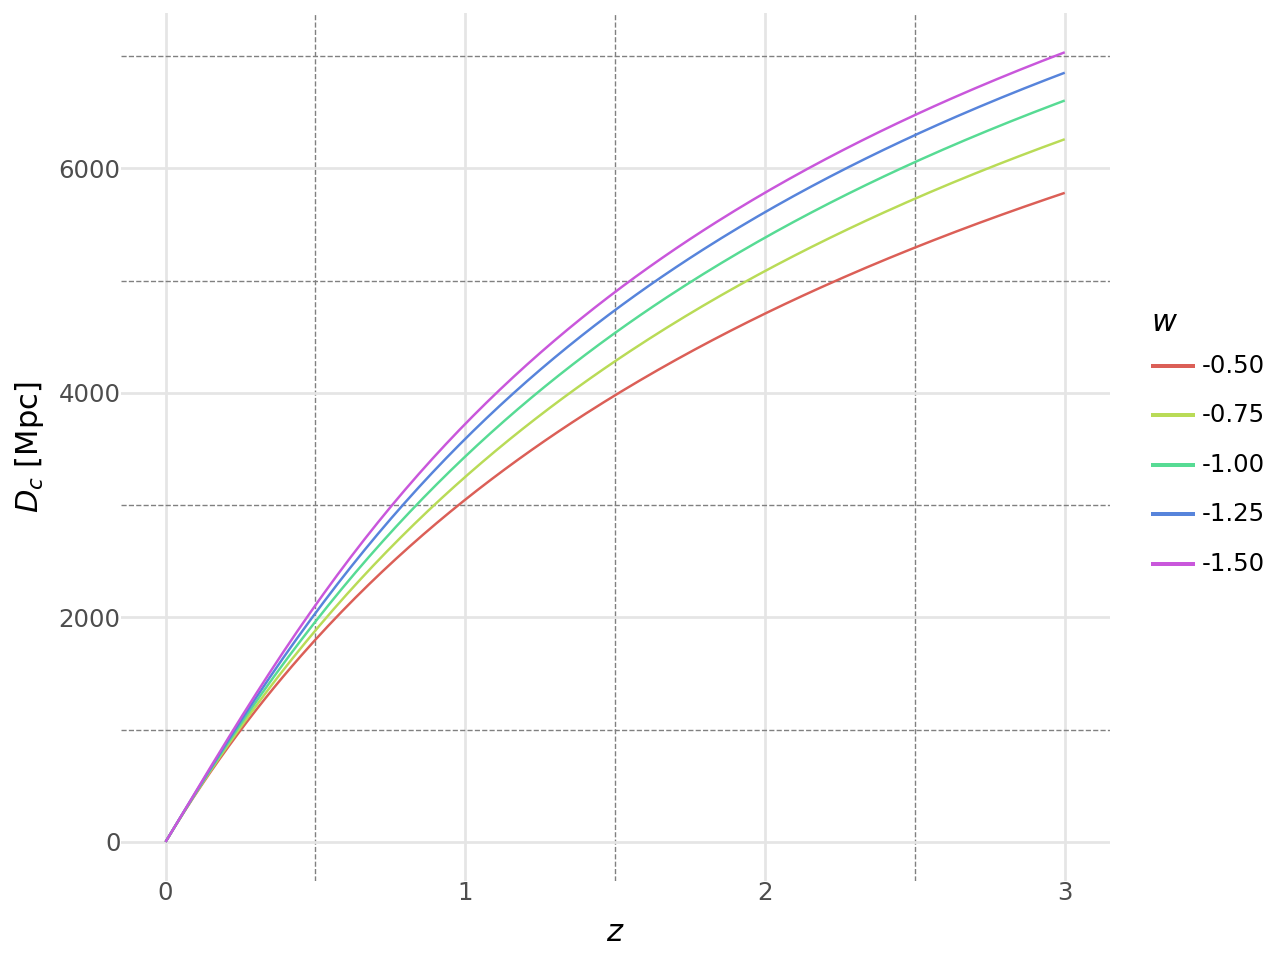
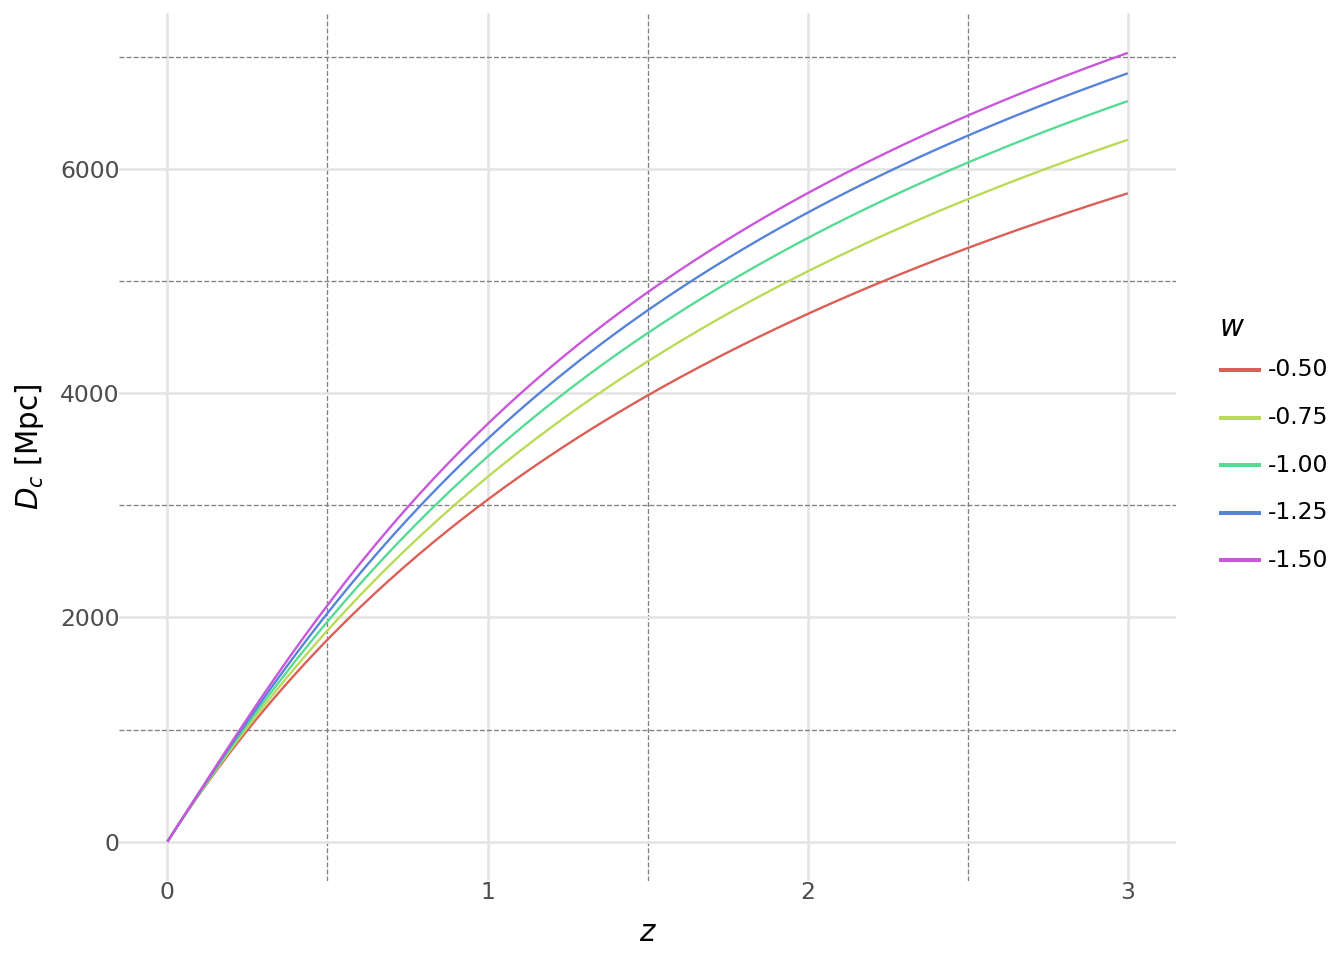
Built site for gh-pages

diff --git a/example_snia.html b/example_snia.html
@@ -316,7 +316,7 @@ window.Quarto = {
 
 
 <div class="hidden">
-<div id="16ebce3c" class="cell" data-execution_count="1">
+<div id="3488884b" class="cell" data-execution_count="1">
 <div class="sourceCode cell-code" id="cb1"><pre class="sourceCode python code-with-copy"><code class="sourceCode python"><span id="cb1-1"><a href="#cb1-1" aria-hidden="true" tabindex="-1"></a><span class="kw">def</span> doc_theme():</span>
 <span id="cb1-2"><a href="#cb1-2" aria-hidden="true" tabindex="-1"></a>    <span class="cf">return</span> theme_minimal() <span class="op">+</span> theme(</span>
 <span id="cb1-3"><a href="#cb1-3" aria-hidden="true" tabindex="-1"></a>        panel_grid_minor<span class="op">=</span>element_line(color<span class="op">=</span><span class="st">"gray"</span>, linetype<span class="op">=</span><span class="st">"--"</span>),</span>
@@ -327,7 +327,7 @@ window.Quarto = {
 <section id="computational-cosmology" class="level2 page-columns page-full">
 <h2 class="anchored" data-anchor-id="computational-cosmology">Computational Cosmology</h2>
 <p>NumCosmo provides tools for calculating cosmological observables with precision. For example, the comoving distance in an XCDM cosmology up to a redshift of <span class="math inline">\(z = 3.0\)</span> can be computed with a few lines of code using the parameters <span class="math inline">\(\Omega_{c0} = 0.25\)</span>, <span class="math inline">\(\Omega_{b0} = 0.05\)</span>, and <span class="math inline">\(w\)</span> varying from <span class="math inline">\(-1.5\)</span> to <span class="math inline">\(-0.5\)</span>.</p>
-<div id="97e289c6" class="cell" data-execution_count="2">
+<div id="1e7c5c49" class="cell" data-execution_count="2">
 <div class="sourceCode cell-code" id="cb2"><pre class="sourceCode python code-with-copy"><code class="sourceCode python"><span id="cb2-1"><a href="#cb2-1" aria-hidden="true" tabindex="-1"></a><span class="im">import</span> numpy <span class="im">as</span> np</span>
 <span id="cb2-2"><a href="#cb2-2" aria-hidden="true" tabindex="-1"></a><span class="im">import</span> pandas <span class="im">as</span> pd</span>
 <span id="cb2-3"><a href="#cb2-3" aria-hidden="true" tabindex="-1"></a><span class="im">from</span> plotnine <span class="im">import</span> <span class="op">*</span></span>
@@ -374,7 +374,7 @@ window.Quarto = {
 <div id="fig-comoving-distance" class="quarto-float quarto-figure quarto-figure-center anchored page-columns page-full" data-cap-location="margin">
 <figure class="quarto-float quarto-float-fig figure page-columns page-full">
 <div aria-describedby="fig-comoving-distance-caption-0ceaefa1-69ba-4598-a22c-09a6ac19f8ca">
-<img src="example_snia_files/figure-html/fig-comoving-distance-output-1.png" width="640" height="480" class="figure-img">
+<img src="example_snia_files/figure-html/fig-comoving-distance-output-1.png" width="672" height="480" class="figure-img">
 </div>
 <figcaption class="quarto-float-caption-margin quarto-float-caption quarto-float-fig margin-caption" id="fig-comoving-distance-caption-0ceaefa1-69ba-4598-a22c-09a6ac19f8ca">
 Figure&nbsp;1: Comoving distance for XCDM cosmology up to redshift <span class="math inline">\(z = 3.0\)</span>.
@@ -386,7 +386,7 @@ Figure&nbsp;1: Comoving distance for XCDM cosmology up to redshift <span class="
 <section id="the-modeling" class="level3">
 <h3 class="anchored" data-anchor-id="the-modeling">The Modeling</h3>
 <p>NumCosmo’s computational objects are designed for direct use in statistical analyses. In the example above, the <code>HICosmoDEXcdm</code> class defines the cosmological model, which is a subclass of the <code>HICosmo</code> class representing a homogeneous isotropic cosmology. The model’s parameters can be accessed and managed within a model set, using the <code>MSet</code> class, which serves as the main container for all models in a given analysis.</p>
-<div id="09787363" class="cell" data-execution_count="4">
+<div id="01ac4cbb" class="cell" data-execution_count="4">
 <div class="sourceCode cell-code" id="cb4"><pre class="sourceCode python code-with-copy"><code class="sourceCode python"><span id="cb4-1"><a href="#cb4-1" aria-hidden="true" tabindex="-1"></a>mset <span class="op">=</span> Ncm.MSet.new_array([cosmo])</span>
 <span id="cb4-2"><a href="#cb4-2" aria-hidden="true" tabindex="-1"></a>mset.pretty_log()</span></code><button title="Copy to Clipboard" class="code-copy-button"><i class="bi"></i></button></pre></div>
 <div class="cell-output cell-output-stdout">
@@ -410,7 +410,7 @@ Figure&nbsp;1: Comoving distance for XCDM cosmology up to redshift <span class="
 <section id="fitting-model-to-data" class="level2 page-columns page-full">
 <h2 class="anchored" data-anchor-id="fitting-model-to-data">Fitting Model to Data</h2>
 <p>Once models are defined and the free parameters are set, they can be analyzed using a variety of statistical methods. For example, the best-fit parameters for a given model can be found by maximizing the likelihood function.</p>
-<div id="d53178d2" class="cell" data-execution_count="5">
+<div id="a67fa98b" class="cell" data-execution_count="5">
 <details class="code-fold">
 <summary>Code</summary>
 <div class="sourceCode cell-code" id="cb6"><pre class="sourceCode python code-with-copy"><code class="sourceCode python"><span id="cb6-1"><a href="#cb6-1" aria-hidden="true" tabindex="-1"></a>cosmo.props.w_fit <span class="op">=</span> <span class="va">True</span></span>
@@ -437,7 +437,7 @@ Figure&nbsp;1: Comoving distance for XCDM cosmology up to redshift <span class="
 #  - differentiation:   Numerical differentiantion (forward)
 #................
 #  Minimum found with precision: |df|/f =  1.00000e-08 and |dx| =  1.00000e-05
-#  Elapsed time: 00 days, 00:00:00.8876990
+#  Elapsed time: 00 days, 00:00:00.8017820
 #  iteration            [000074]
 #  function evaluations [000076]
 #  gradient evaluations [000000]
@@ -470,7 +470,7 @@ Figure&nbsp;1: Comoving distance for XCDM cosmology up to redshift <span class="
 </div>
 </div>
 <p>The code above fits the XCDM model to the Union2.1 dataset, which contains supernova type Ia data. It computes the best-fit parameters for the model and the covariance matrix of the parameters using the Fisher matrix.</p>
-<div id="9183a77f" class="cell" data-execution_count="6">
+<div id="4bd3a157" class="cell" data-execution_count="6">
 <div class="sourceCode cell-code" id="cb8"><pre class="sourceCode python code-with-copy"><code class="sourceCode python"><span id="cb8-1"><a href="#cb8-1" aria-hidden="true" tabindex="-1"></a>lhr2d <span class="op">=</span> Ncm.LHRatio2d.new(</span>
 <span id="cb8-2"><a href="#cb8-2" aria-hidden="true" tabindex="-1"></a>    fit,</span>
 <span id="cb8-3"><a href="#cb8-3" aria-hidden="true" tabindex="-1"></a>    mset.fparam_get_pi_by_name(<span class="st">"Omegac"</span>),</span>
@@ -525,7 +525,7 @@ Figure&nbsp;1: Comoving distance for XCDM cosmology up to redshift <span class="
 <div id="fig-fit-results" class="quarto-float quarto-figure quarto-figure-center anchored page-columns page-full" data-cap-location="margin">
 <figure class="quarto-float quarto-float-fig figure page-columns page-full">
 <div aria-describedby="fig-fit-results-caption-0ceaefa1-69ba-4598-a22c-09a6ac19f8ca">
-<img src="example_snia_files/figure-html/fig-fit-results-output-1.png" width="640" height="480" class="figure-img">
+<img src="example_snia_files/figure-html/fig-fit-results-output-1.png" width="672" height="480" class="figure-img">
 </div>
 <figcaption class="quarto-float-caption-margin quarto-float-caption quarto-float-fig margin-caption" id="fig-fit-results-caption-0ceaefa1-69ba-4598-a22c-09a6ac19f8ca">
 Figure&nbsp;2: Best-fit parameters and confidence regions for the XCDM model.
@@ -538,7 +538,7 @@ Figure&nbsp;2: Best-fit parameters and confidence regions for the XCDM model.
 <section id="running-a-mcmc-analysis" class="level2 page-columns page-full">
 <h2 class="anchored" data-anchor-id="running-a-mcmc-analysis">Running a MCMC Analysis</h2>
 <p>NumCosmo also provides tools for running Markov Chain Monte Carlo (MCMC) analyses. The code below runs an MCMC analysis using the <code>APES</code> algorithm.</p>
-<div id="fac337ac" class="cell" data-execution_count="8">
+<div id="721e7801" class="cell" data-execution_count="8">
 <div class="sourceCode cell-code" id="cb10"><pre class="sourceCode python code-with-copy"><code class="sourceCode python"><span id="cb10-1"><a href="#cb10-1" aria-hidden="true" tabindex="-1"></a>init_sampler <span class="op">=</span> Ncm.MSetTransKernGauss.new(<span class="dv">0</span>)</span>
 <span id="cb10-2"><a href="#cb10-2" aria-hidden="true" tabindex="-1"></a>init_sampler.set_mset(mset)</span>
 <span id="cb10-3"><a href="#cb10-3" aria-hidden="true" tabindex="-1"></a>init_sampler.set_prior_from_mset()</span>
@@ -553,7 +553,7 @@ Figure&nbsp;2: Best-fit parameters and confidence regions for the XCDM model.
 <span id="cb10-12"><a href="#cb10-12" aria-hidden="true" tabindex="-1"></a>esmcmc.end_run()</span></code><button title="Copy to Clipboard" class="code-copy-button"><i class="bi"></i></button></pre></div>
 </div>
 <p>Finally, we can extract the MCMC samples and visualize the results.</p>
-<div id="fig-mcmc-results" class="cell quarto-float quarto-figure quarto-figure-center anchored page-columns page-full" data-fig-cap-location="margin" data-execution_count="9">
+<div id="fig-mcmc-results" class="cell quarto-float quarto-figure quarto-figure-center anchored page-columns page-full" data-execution_count="9" data-fig-cap-location="margin">
 <figure class="quarto-float quarto-float-fig figure page-columns page-full">
 <div aria-describedby="fig-mcmc-results-caption-0ceaefa1-69ba-4598-a22c-09a6ac19f8ca">
 <div class="sourceCode cell-code" id="cb11"><pre class="sourceCode python code-with-copy"><code class="sourceCode python"><span id="cb11-1"><a href="#cb11-1" aria-hidden="true" tabindex="-1"></a>mcat <span class="op">=</span> esmcmc.peek_catalog()</span>
